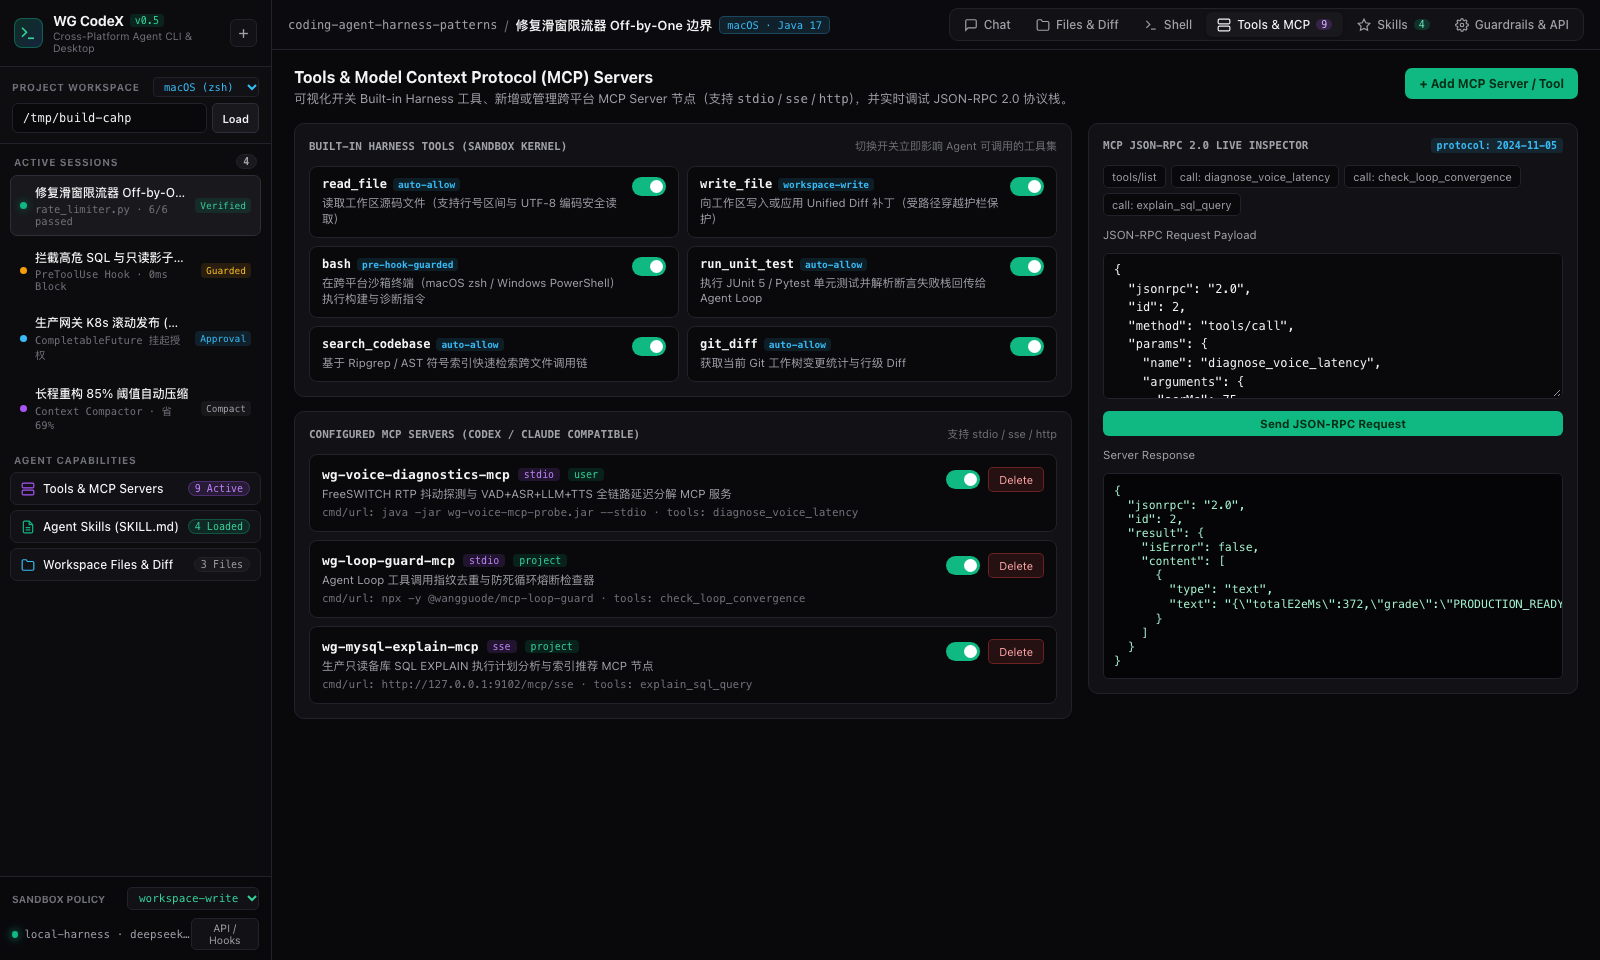
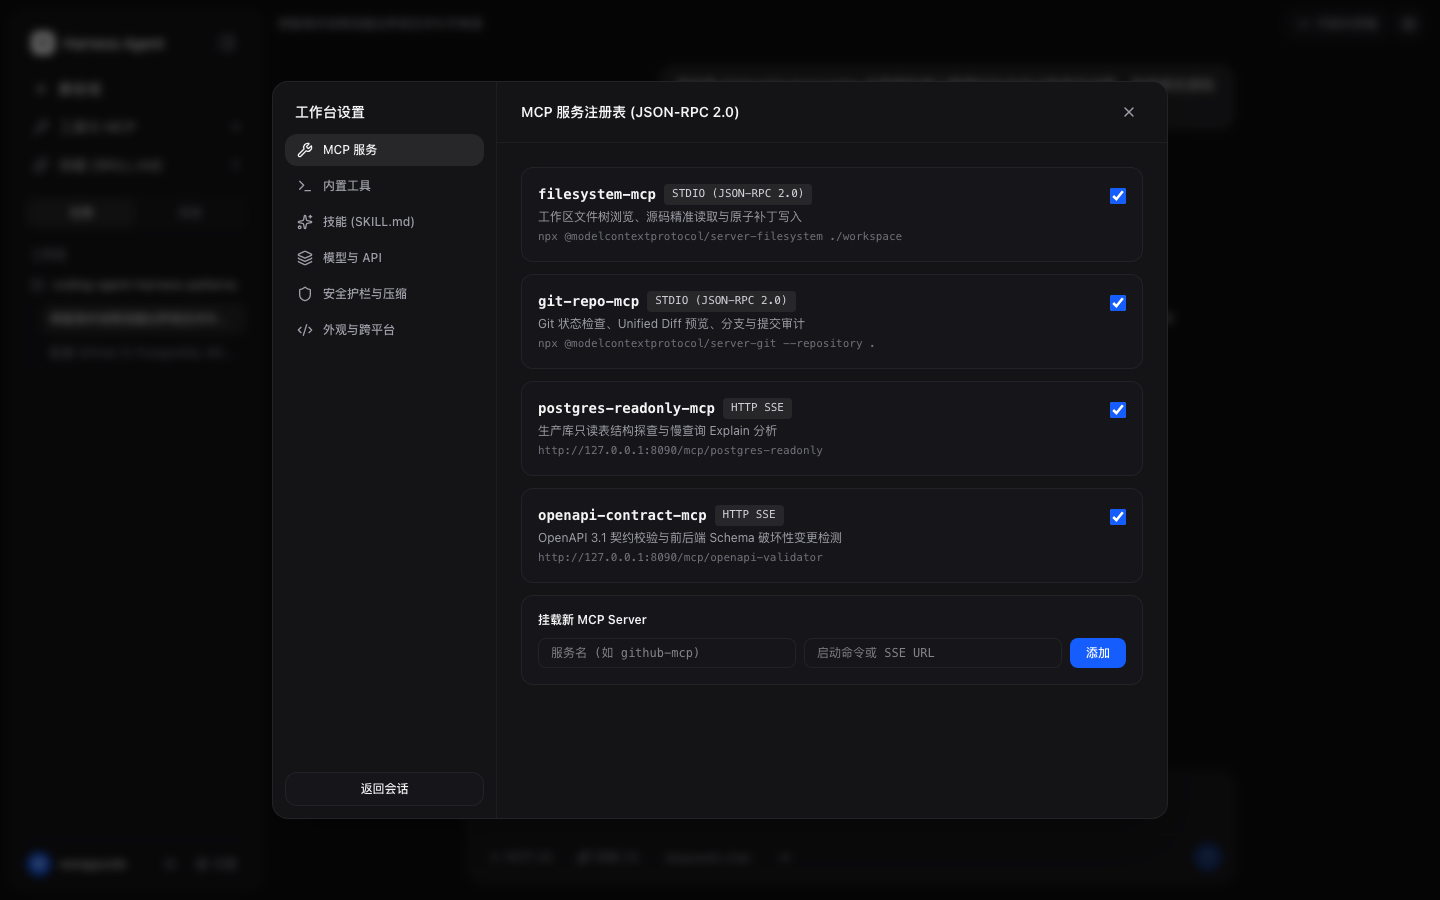
docs & build: update README screenshots to Harness Agent UI and add Mac/Windows desktop packaging

diff --git a/desktop-shell/main.js b/desktop-shell/main.js
@@ -1,12 +1,13 @@
 import { app, BrowserWindow, shell } from 'electron';
 import { spawn } from 'node:child_process';
+import fs from 'node:fs';
 import path from 'node:path';
 import { fileURLToPath } from 'node:url';
 
 const __dirname = path.dirname(fileURLToPath(import.meta.url));
-const APP_NAME = 'WG CodeX Studio';
-const APP_USER_MODEL_ID = 'com.wangguoai.codex.desktop';
-const STUDIO_PORT = process.env.WG_CODEX_PORT || '8090';
+const APP_NAME = 'Harness Agent';
+const APP_USER_MODEL_ID = 'com.wangguoai.harness.desktop';
+const STUDIO_PORT = process.env.HARNESS_AGENT_PORT || '8090';
 const STUDIO_URL = `http://127.0.0.1:${STUDIO_PORT}`;
 
 if (process.platform === 'win32') {
@@ -16,8 +17,17 @@ if (process.platform === 'win32') {
 let mainWindow = null;
 let backendProcess = null;
 
+function resolveBackendJar() {
+  const packagedJar = path.join(process.resourcesPath || '', 'backend', 'harness-agent.jar');
+  if (fs.existsSync(packagedJar)) {
+    return packagedJar;
+  }
+  return path.resolve(__dirname, '..', 'java-harness-studio', 'target', 'wg-harness-studio-0.3.0.jar');
+}
+
 function startEmbeddedJavaBackendIfNeeded() {
-  const jarPath = path.resolve(__dirname, '..', 'java-harness-studio', 'target', 'wg-harness-studio-0.3.0.jar');
+  const jarPath = resolveBackendJar();
+  if (!fs.existsSync(jarPath)) return;
   backendProcess = spawn('java', ['-jar', jarPath, `--server.port=${STUDIO_PORT}`], {
     stdio: 'ignore',
     windowsHide: true,
@@ -29,9 +39,9 @@ function createDesktopWindow() {
     title: APP_NAME,
     width: 1440,
     height: 900,
-    minWidth: 1080,
+    minWidth: 1024,
     minHeight: 680,
-    backgroundColor: '#09090b',
+    backgroundColor: '#0d0d0f',
     titleBarStyle: process.platform === 'darwin' ? 'hiddenInset' : 'default',
     webPreferences: {
       contextIsolation: true,
